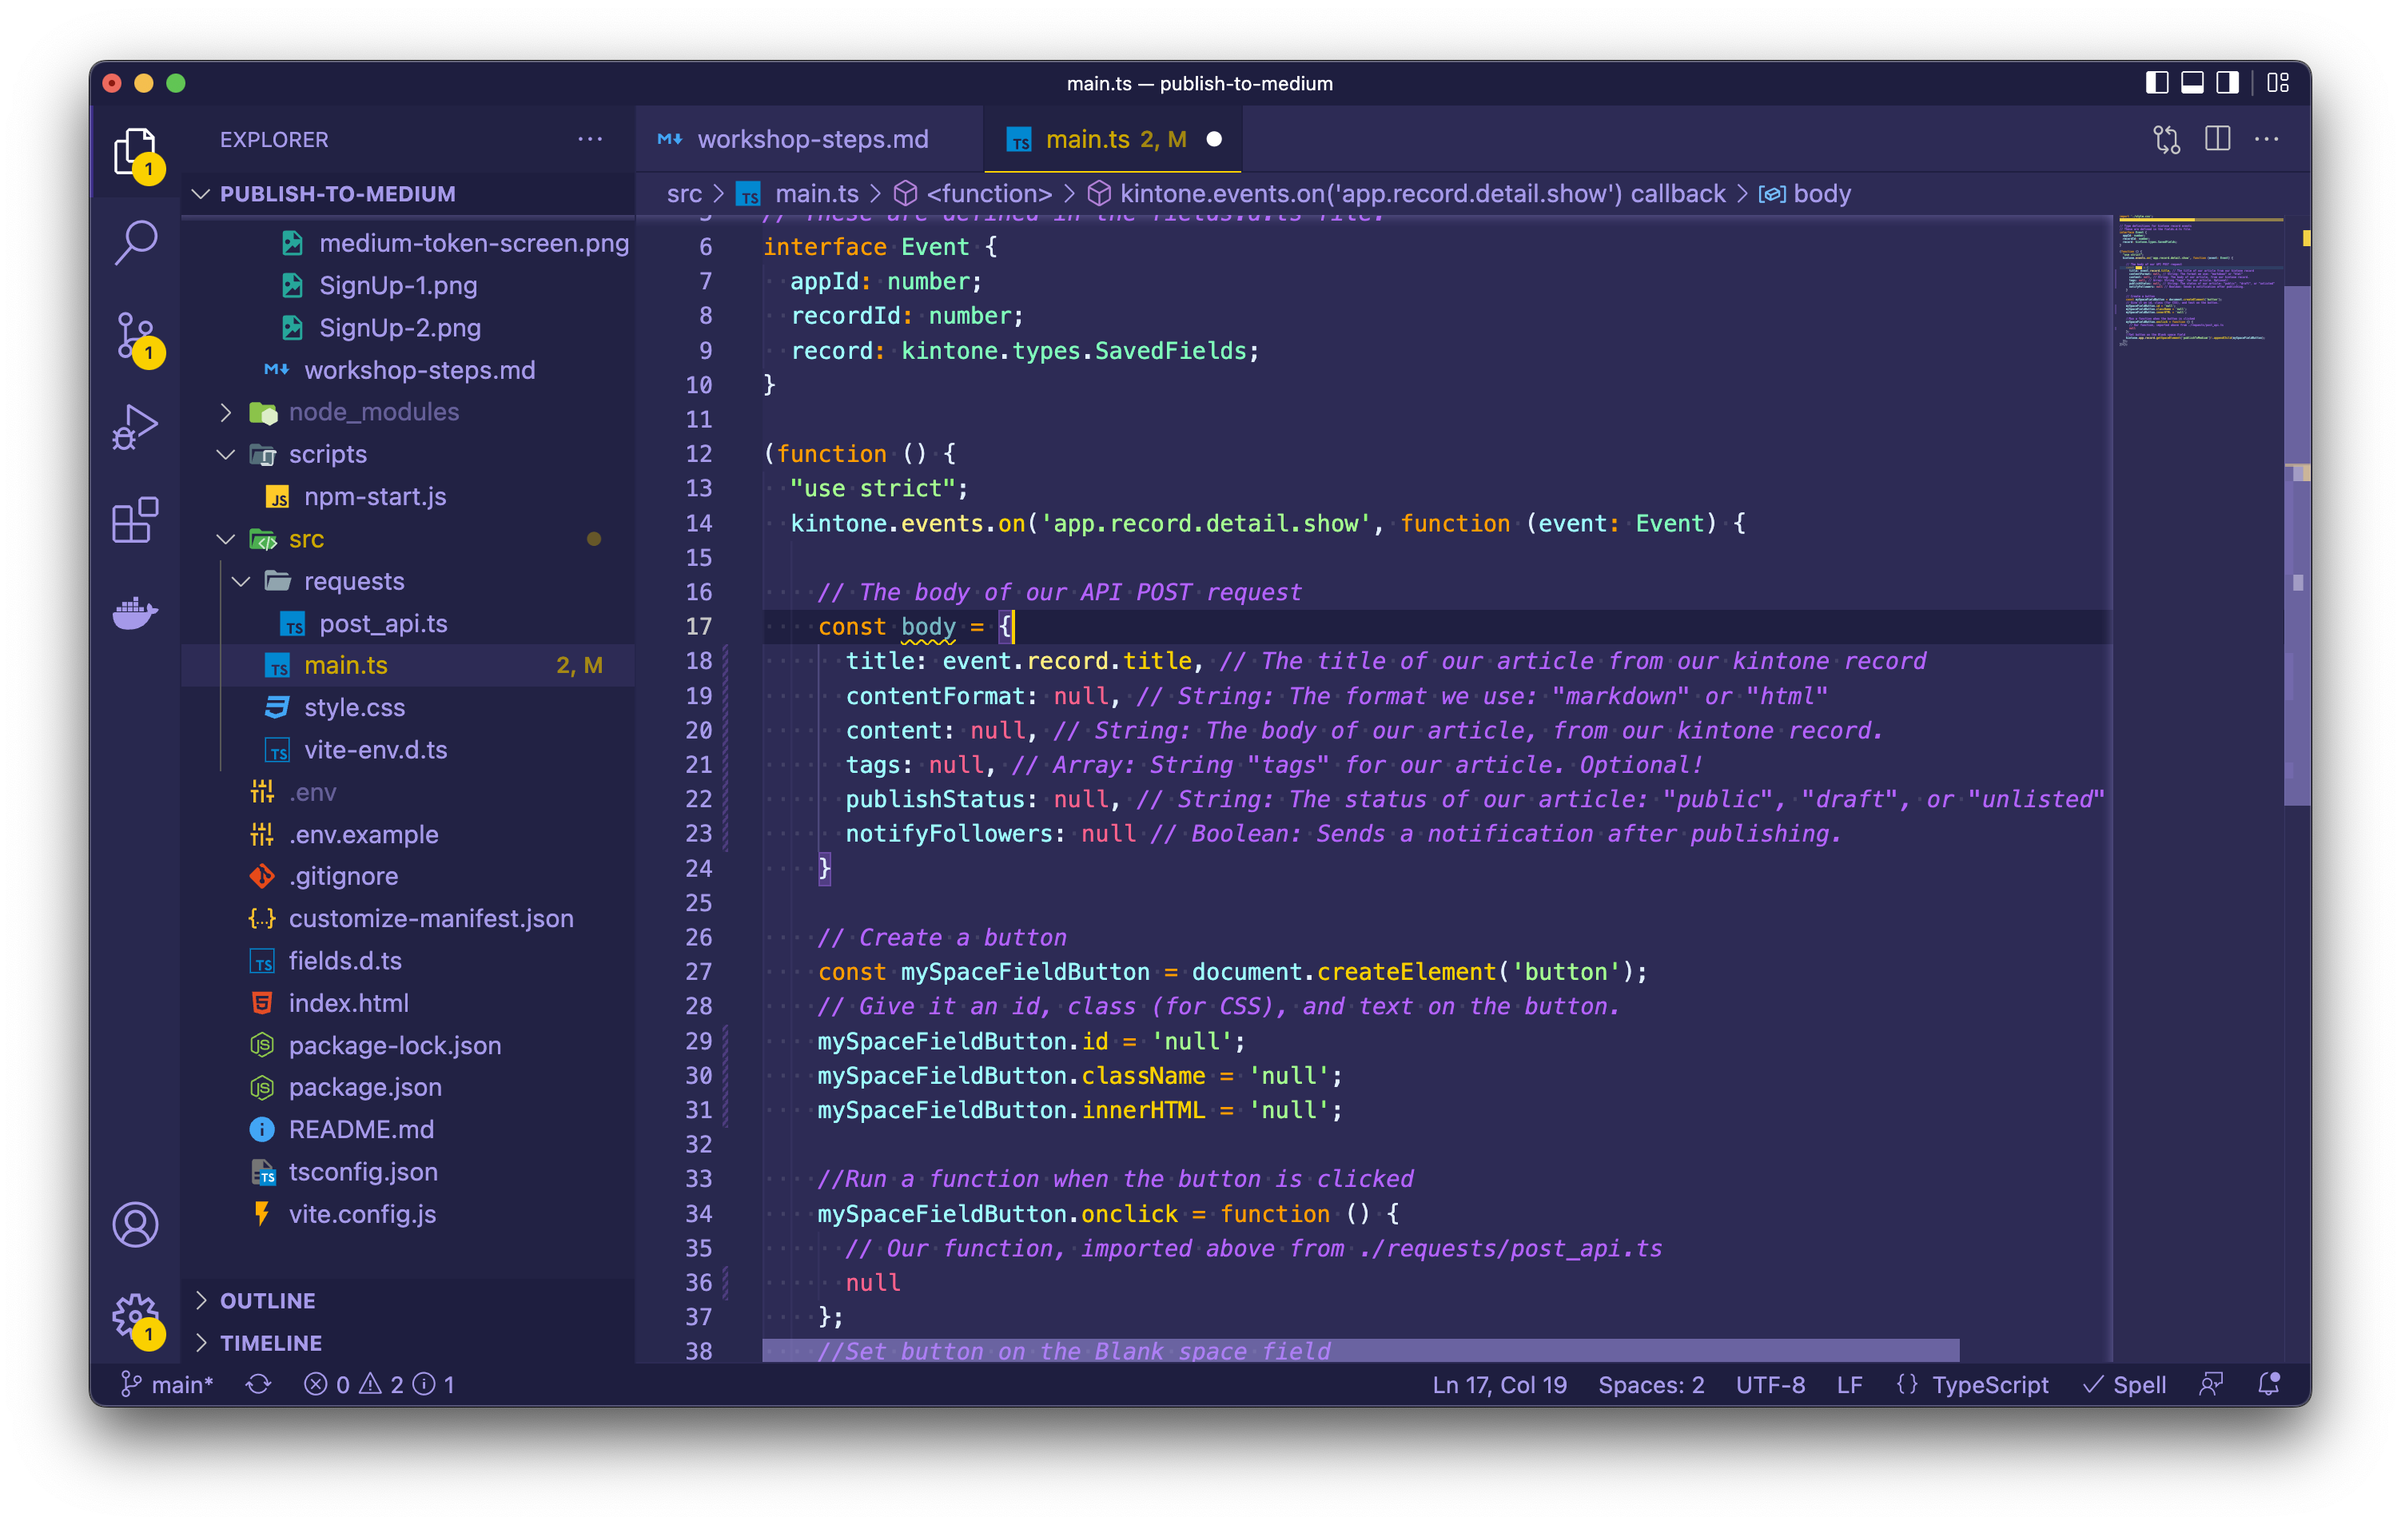
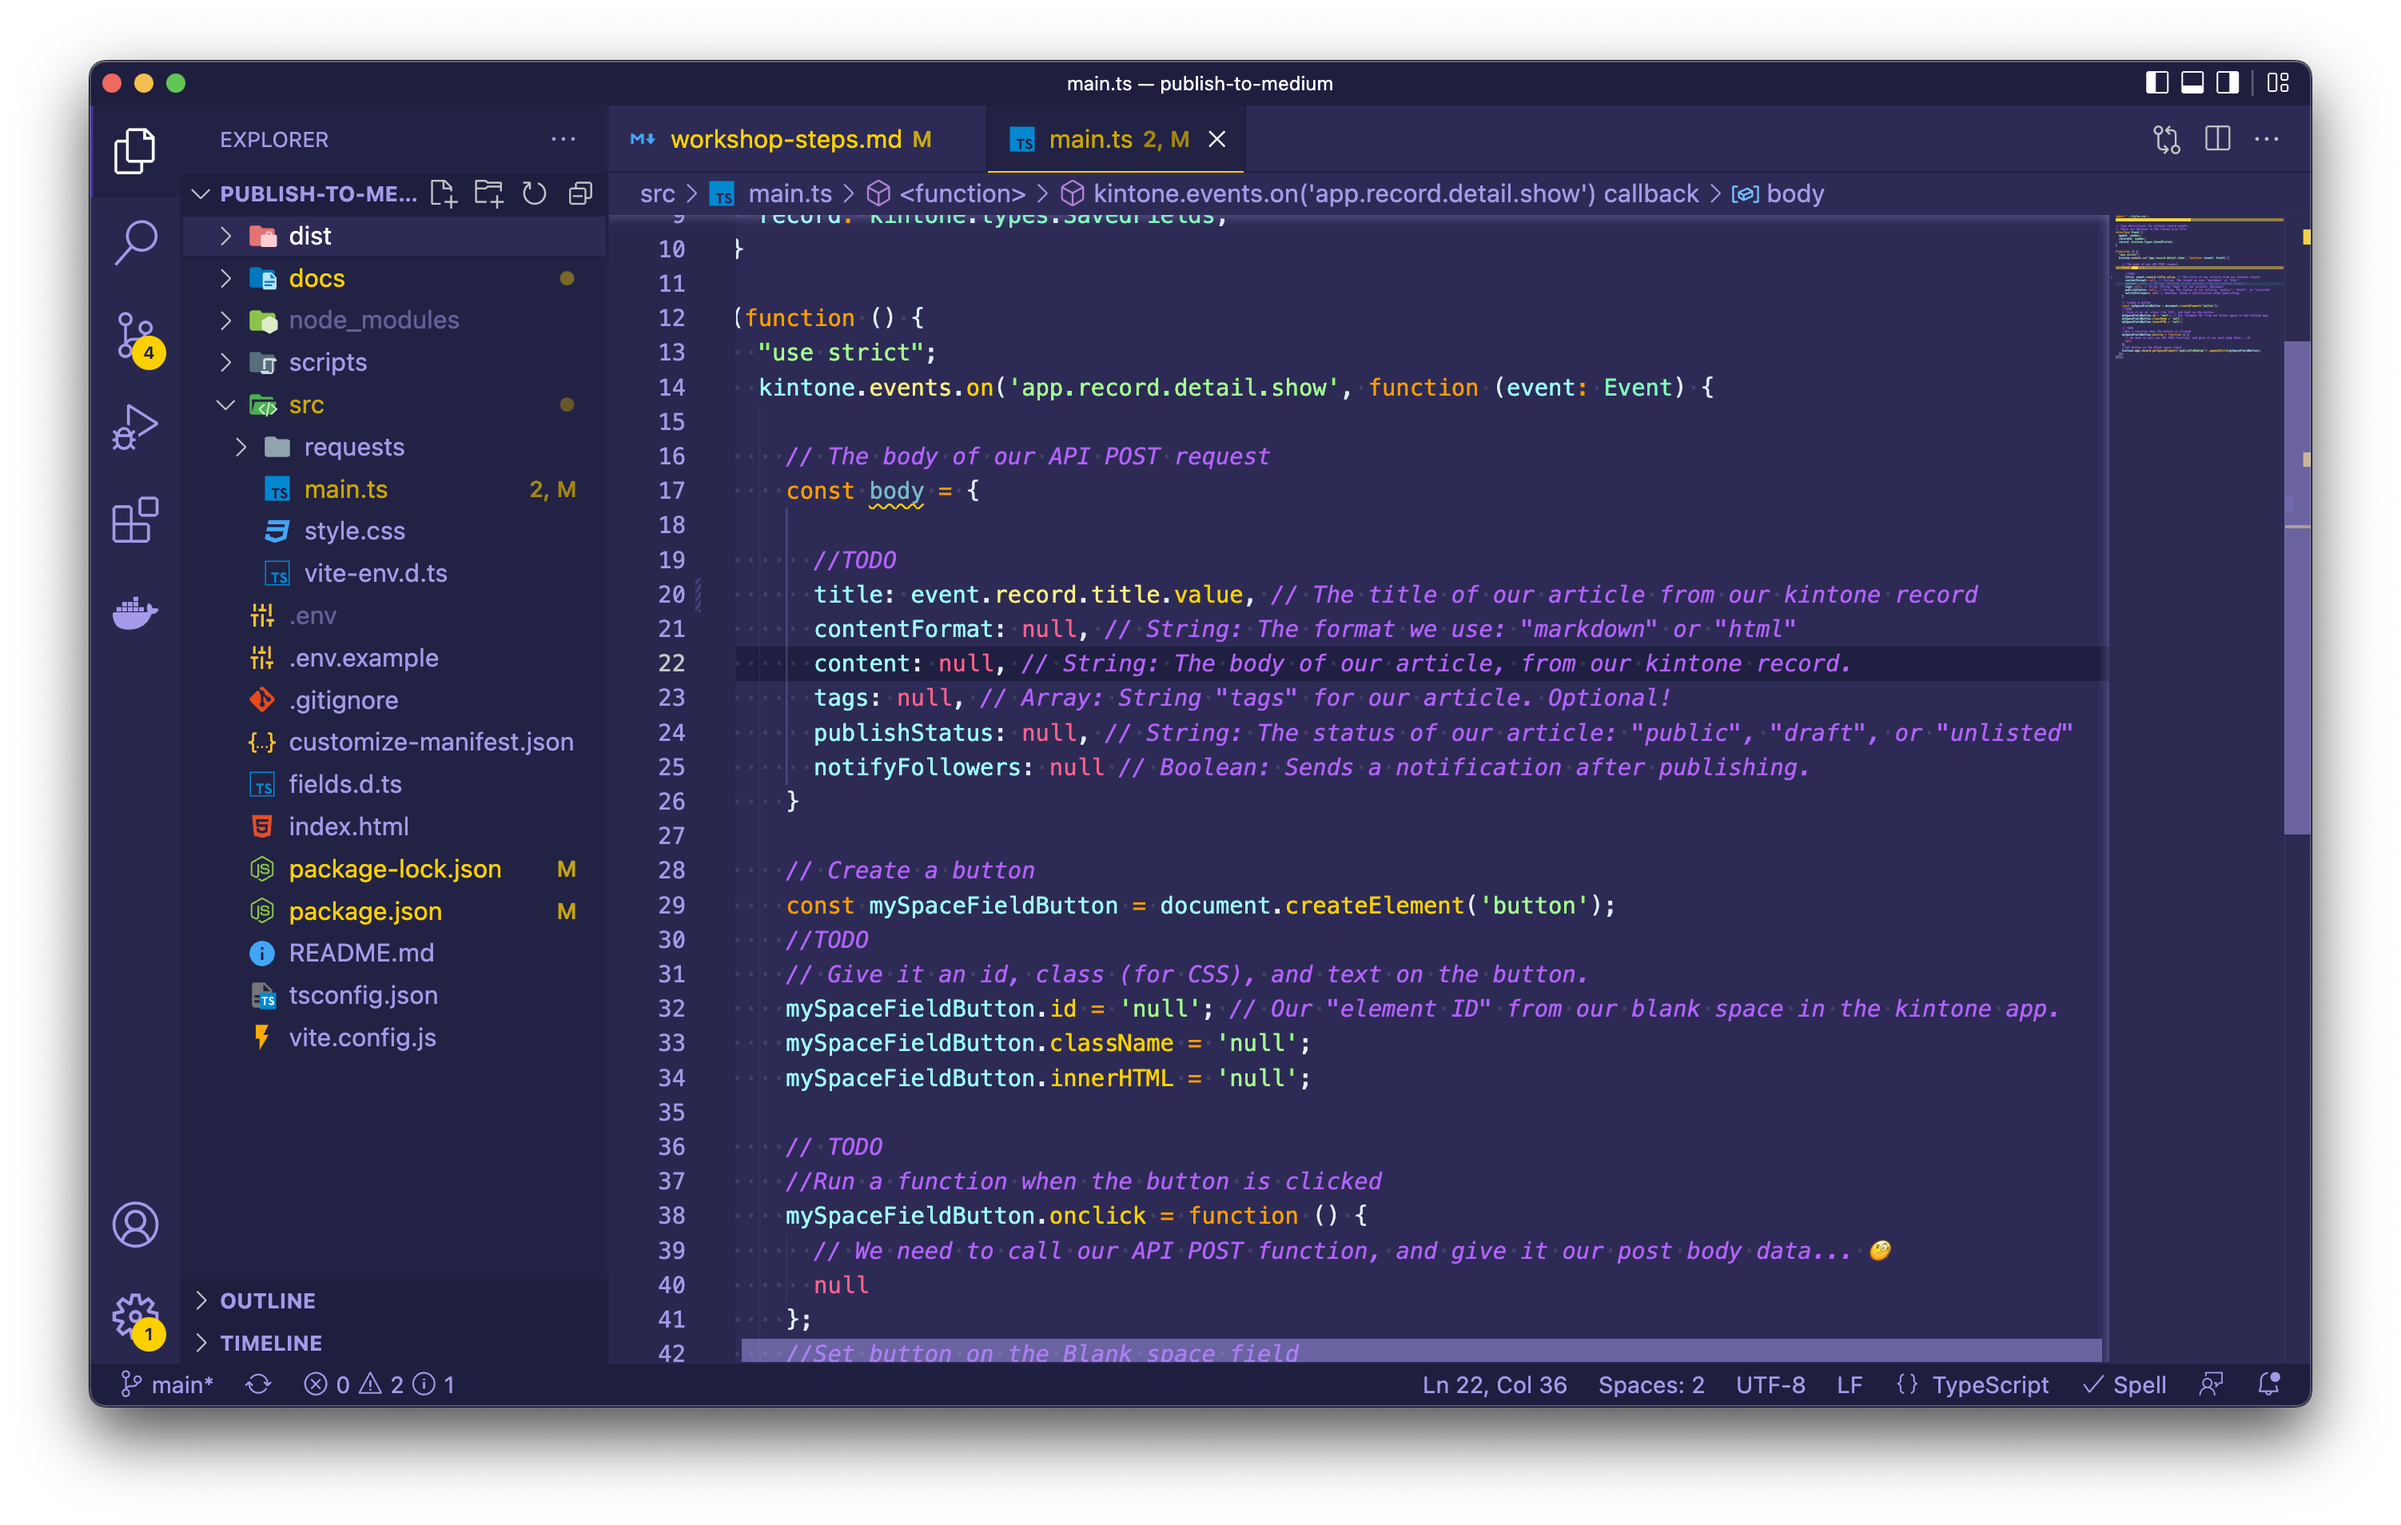
fix images, and update docs steps

diff --git a/src/main.ts b/src/main.ts
@@ -17,27 +17,27 @@ interface Event {
     const body = {
 
       //TODO
-      title: null, // The title of our article from our kintone record
-      contentFormat: null, // String: The format we use: "markdown" or "html"
-      content: null, // String: The body of our article, from our kintone record.
-      tags: null, // Array: String "tags" for our article. Optional!
-      publishStatus: null, // String: The status of our article: "public", "draft", or "unlisted"
-      notifyFollowers: null // Boolean: Sends a notification after publishing.
+      title: event.record.title.value, // The title of our article from our kintone record
+      contentFormat: 'markdown', // String: The format we use: "markdown" or "html"
+      content: event.record.body.value, // String: The body of our article, from our kintone record.
+      tags: ['kintone', 'medium', 'low-code'], // Array: String "tags" for our article. Optional!
+      publishStatus: 'public', // String: The status of our article: "public", "draft", or "unlisted"
+      notifyFollowers: false // Boolean: Sends a notification after publishing.
     }
 
     // Create a button
     const mySpaceFieldButton = document.createElement('button');
     //TODO
     // Give it an id, class (for CSS), and text on the button.
-    mySpaceFieldButton.id = 'null'; // Our "element ID" from our blank space in the kintone app.
-    mySpaceFieldButton.className = 'null';
-    mySpaceFieldButton.innerHTML = 'null';
+    mySpaceFieldButton.id = 'publishToMedium'; // Our "element ID" from our blank space in the kintone app.
+    mySpaceFieldButton.className = 'uploadButton';
+    mySpaceFieldButton.innerHTML = 'Publish to Medium!';
 
     // TODO
     //Run a function when the button is clicked
     mySpaceFieldButton.onclick = function () {
       // We need to call our API POST function, and give it our post body data... 🧐
-      null
+      postToMedium(body);
     };
     //Set button on the Blank space field
     kintone.app.record.getSpaceElement('publishToMedium')!.appendChild(mySpaceFieldButton);

diff --git a/docs/workshop-steps.md b/docs/workshop-steps.md
@@ -183,11 +183,11 @@ Next, according to the documentation, Medium articles can be submitted in either
 
 The content field should be our `Body` field from our app, which we designated with the `body` field code:
 
-![images/3-2.png](images/3-2.png)
+![images/3-1.png](images/3-1.png)
 
 Just like above fill it in with the record variable:
 
-![images/3-1.png](images/3-1.png)
+![images/3-2.png](images/3-2.png)
 
 Continue to fill in the body parameters. `tags` are up to you, depending on the contents of your article. The POST API accepts an `array` of `strings`. Here is an example:
 
@@ -200,38 +200,51 @@ tags: ['kintone', 'markdown', 'medium', 'low-code'],
 `publishStatus` is the status of your article. We are going to publish immediately, but saving to your medium.com account's `drafts` is also possible!
 `notifyFollowers` will do exactly that, and takes a boolean, `true` or `false`. We're testing, so let's keep it as `false` for now.
 
-![images/5.png](images/5.png)
+![images/4.png](images/4.png)
+
+Our finished post body should look similar to this:
+
+```js
+    const body = {
+      title: event.record.title.value, // The title of our article from our kintone record
+      contentFormat: "markdown", // String: The format we use: "markdown" or "html"
+      content: event.record.body.value, // String: The body of our article, from our kintone record.
+      tags: ["kintone", "medium", "low-code"], // Array: String "tags" for our article. Optional!
+      publishStatus: 'public', // String: The status of our article: "public", "draft", or "unlisted"
+      notifyFollowers: false // Boolean: Sends a notification after publishing.
+    }
+```
 
 And done! This should be good data to pass to our api call... but we'll need a button for our users to click in order to start the process.
 
-![images/6-1.png](images/6-1.png)
+![images/5-1.png](images/5-1.png)
 
 Kintone allows you to append `HTML` elements to blank spaces in your Kintone App. When we setup our App, we added a `blank space`, and gave it the field code `publishToMedium`.
 
-![images/6-2.png](images/6-2.png)
+![images/5-2.png](images/5-2.png)
 
-![images/6-3.png](images/6-3.png)
+![images/5-3.png](images/5-3.png)
 
 We tell our App where to append our button by matching the `HTML` IDs. Give your button an ID that matches the field code: `publishToMedium`.
 
-![images/7.png](images/7.png)
+![images/6.png](images/6.png)
 
 Our App's custom `CSS` is contained in [style.css](../src/style.css). We can style our button with a CSS class, `uploadButton`.
 
 Lastly, give our button a nice label, so our users can know what it does.
 
-![images/8.png](images/8.png)
+![images/6.png](images/6.png)
 
 Last, we need our button to fire a function when clicked. That function should pass our post `body` data to the API function `publishToMedium`.
 
 In the button's `onClick` function, call the `publishToMedium` function we imported from [post_api.ts](../src/requests/post_api.ts).
 
-![images/9.png](images/9.png)
+![images/7.png](images/7.png)
 
 ## Build & Upload the customization
 
 With this, we can save our work and run kintone-customize-uploader!
 (See the [slides.pdf](../slides.pdf) for more info!) Run `npm run start` in your terminal. Navigate to your app, create a record with some markdown in it, and click the publish button!
-Navigate to your publications on [medium.com](www.medium.com/me) and bathe in your new found journalistic fame!
+Navigate to your publications on [medium.com](https://medium.com/me/stories/public) and bathe in your new found journalistic fame!
 
 Good luck coding!
